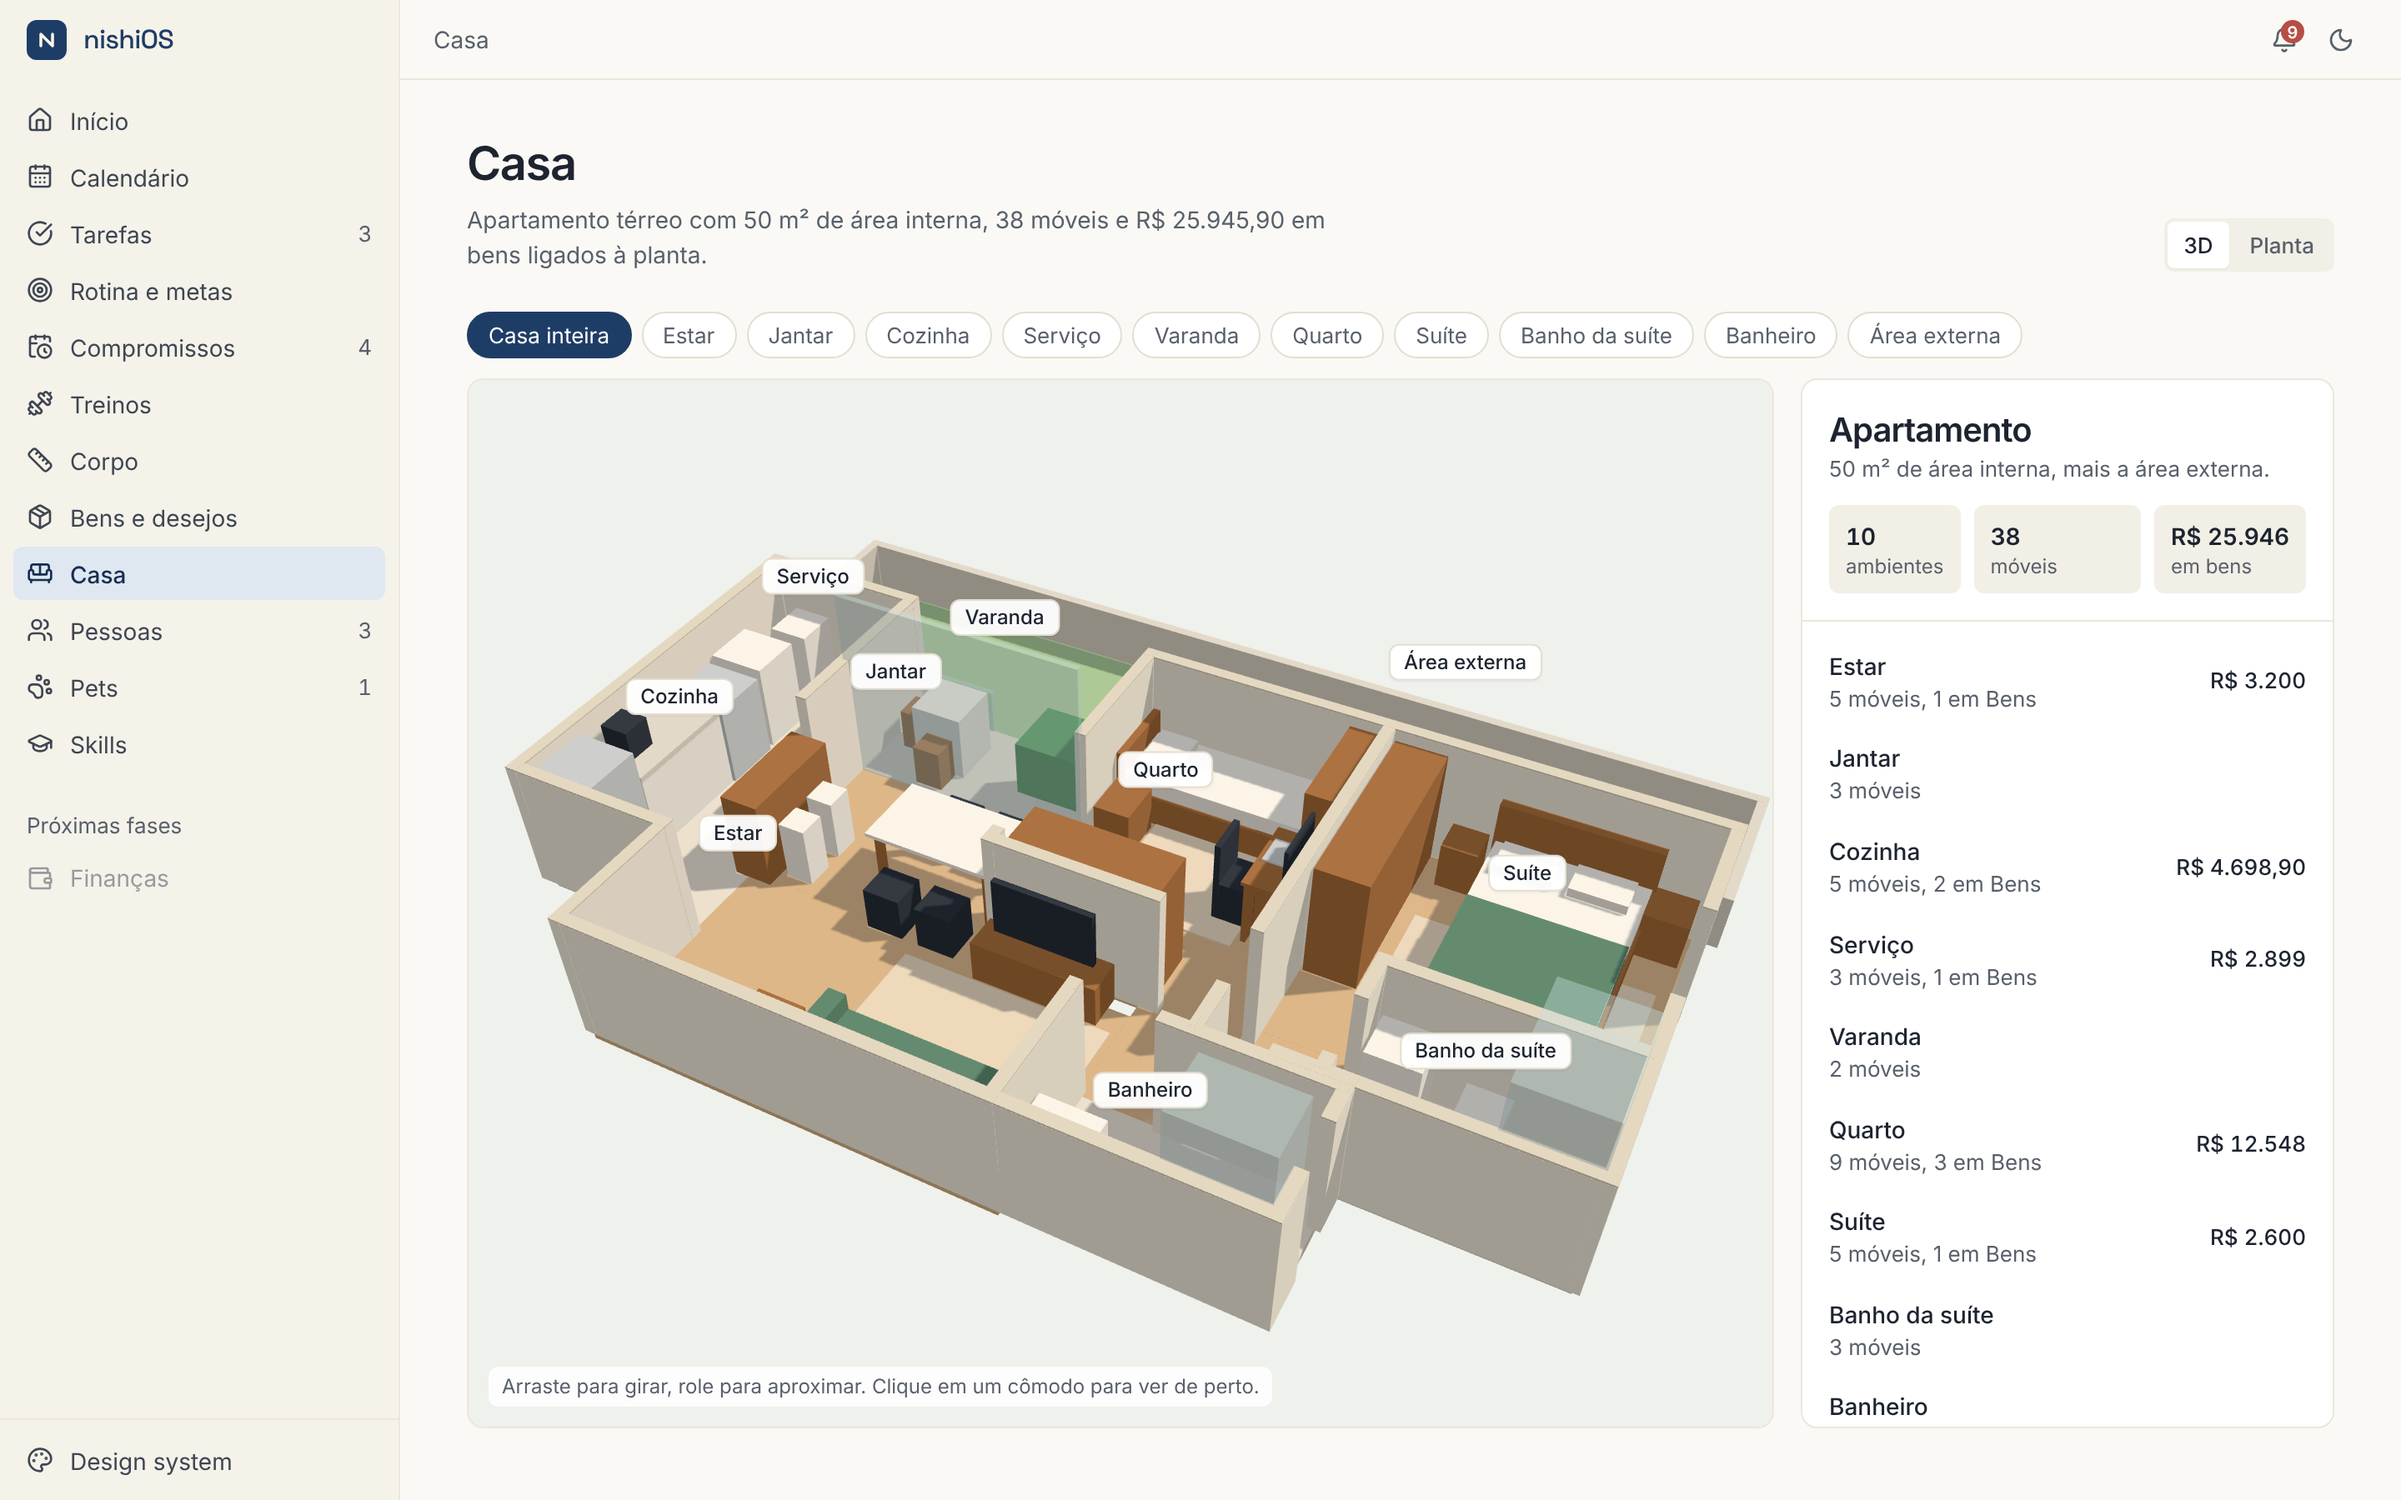
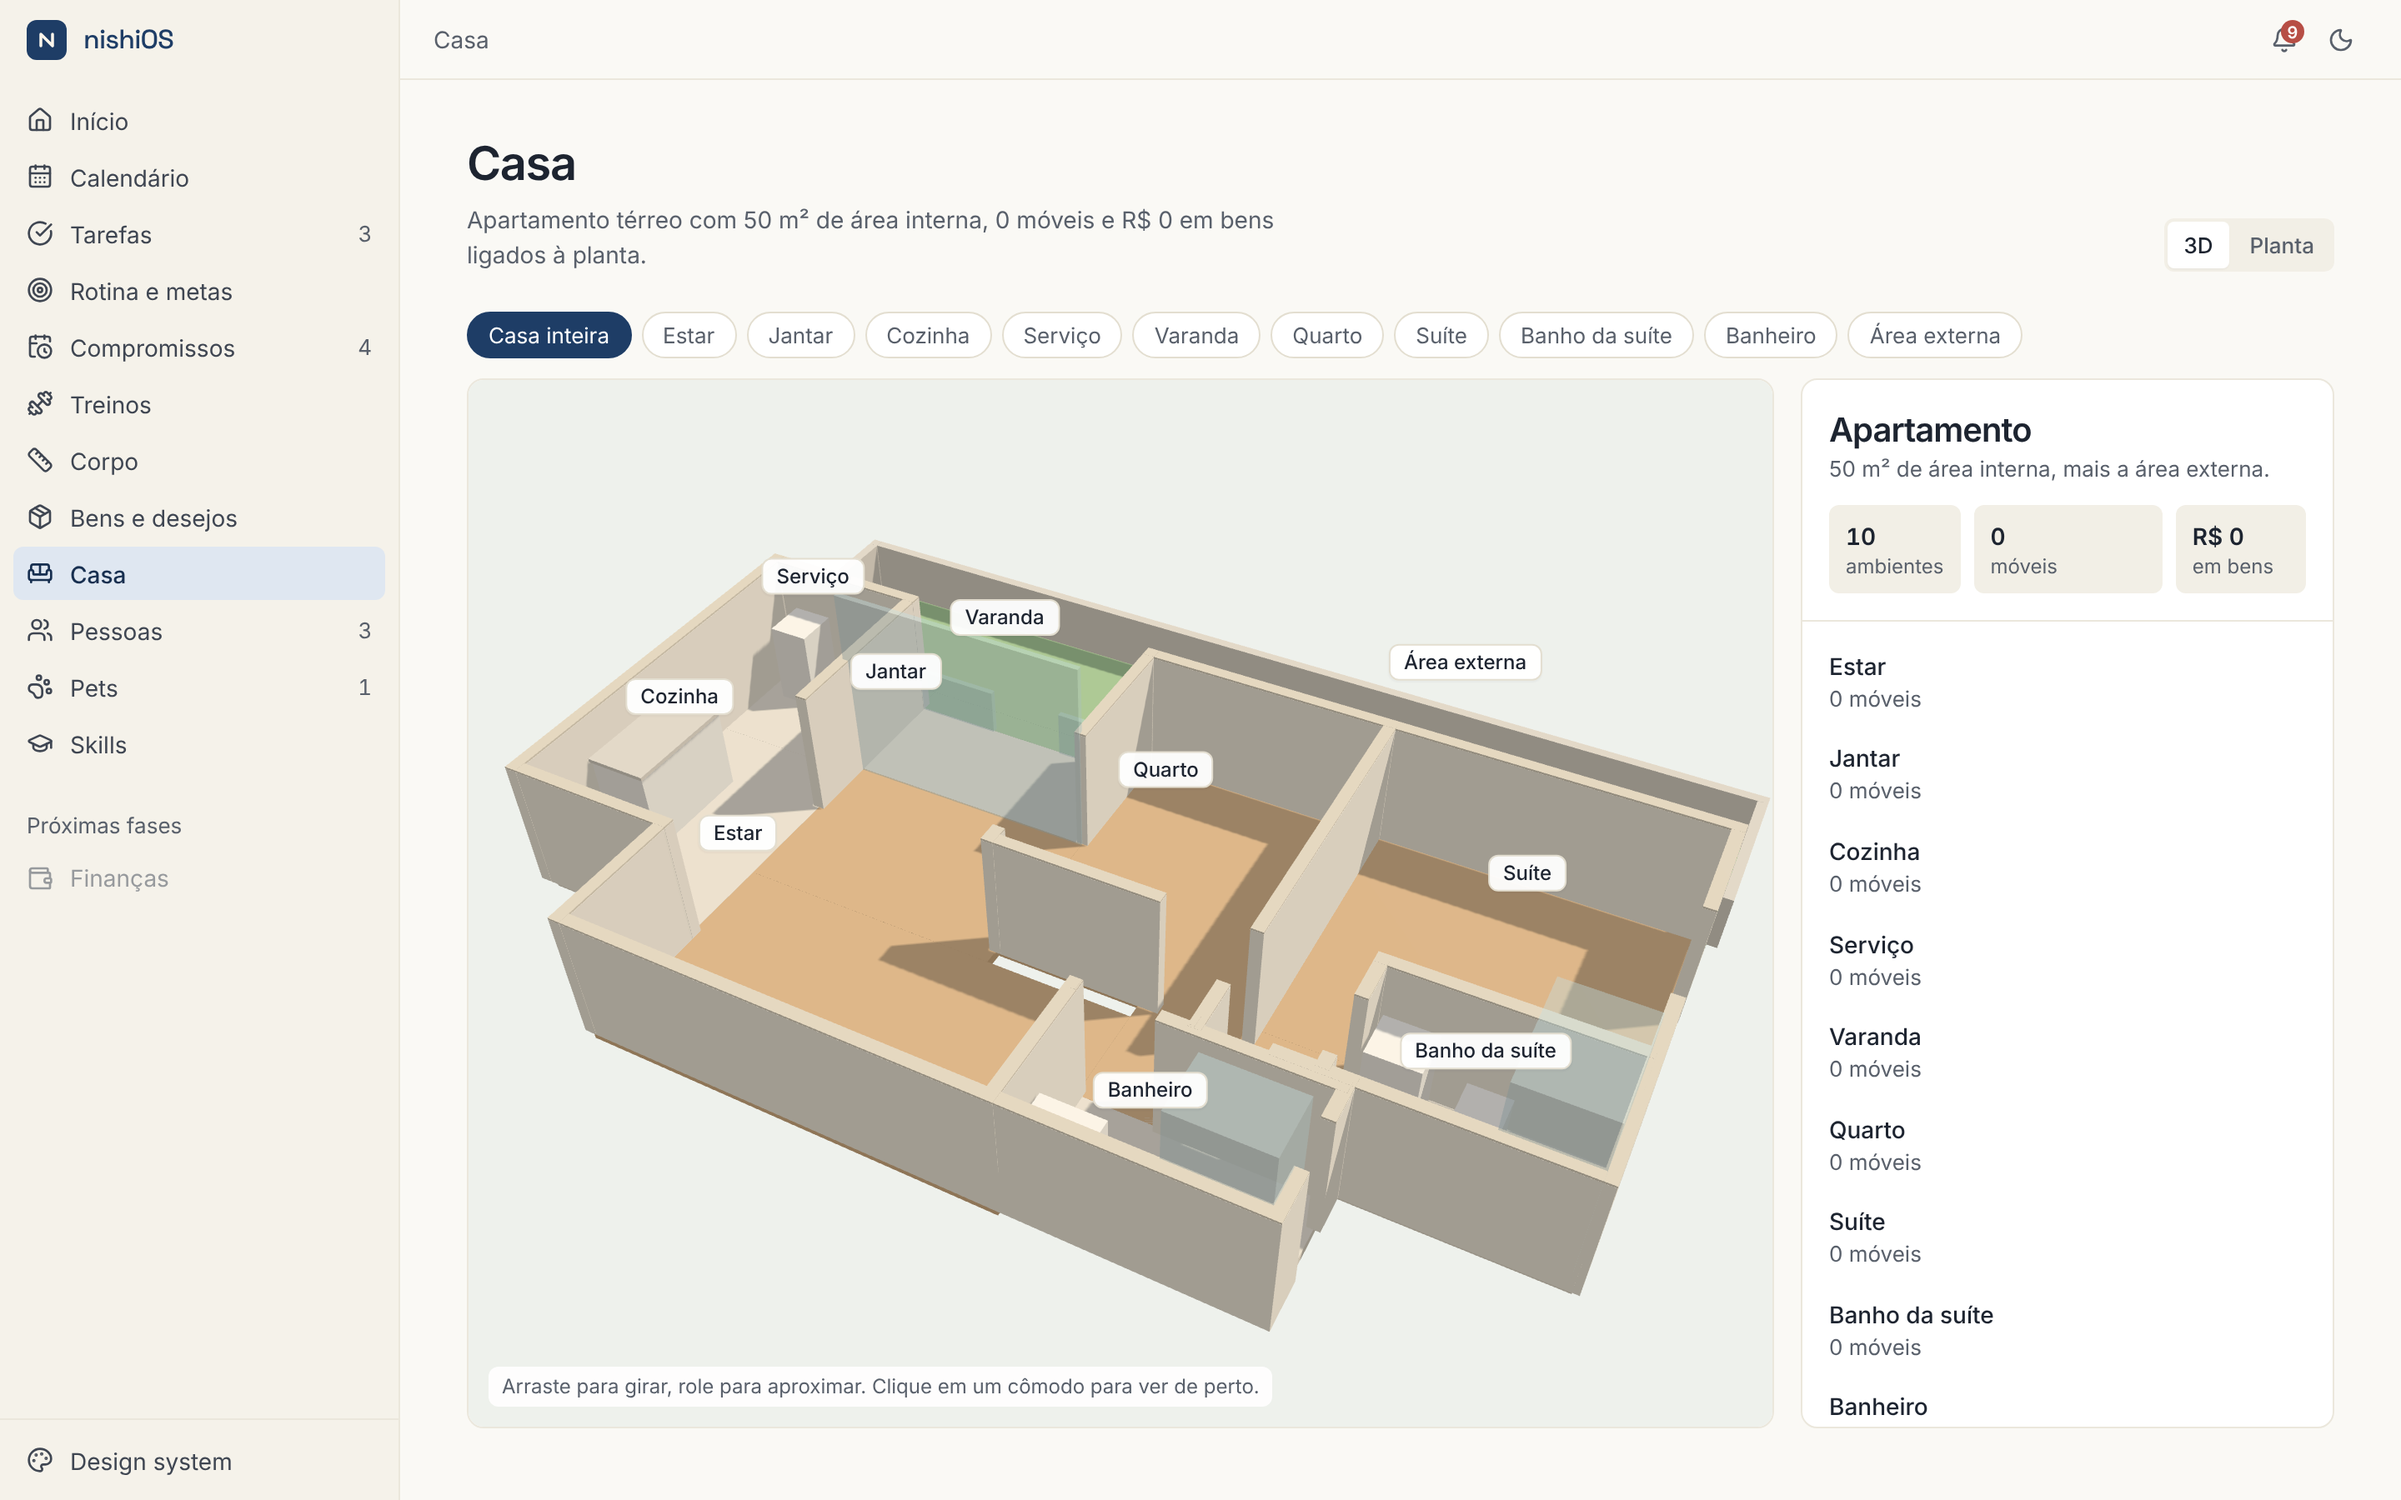
Casa: começa com o apartamento vazio
Tira todos os móveis e deixa só o que vem da construção: pias, vasos,
boxes, tanque, bancada da cozinha, porta da varanda e muro. A chave
do armazenamento passa para v2 para a casa vazia aparecer.

Claude-Session: https://claude.ai/code/session_01CPBcsqRPwbGni2R1C2Sruf

diff --git a/src/modules/casa/seed.ts b/src/modules/casa/seed.ts
@@ -10,14 +10,10 @@ const p = (x: number, z: number, w: number, d: number, h: number, m: Material, y
 });
 
 let n = 0;
-const piece = (
-  roomId: string,
-  name: string,
-  icon: string,
-  category: string,
-  parts: Part[],
-  extra: Partial<Piece> = {},
-): Piece => ({ id: `m${++n}`, roomId, name, icon, category, parts, ...extra });
+/** Parte da construção: aparece no 3D, mas não é um móvel nem um bem. */
+const fixed = (roomId: string, name: string, parts: Part[]): Piece => ({
+  id: `c${++n}`, roomId, name, icon: "🏠", category: "Outros", parts, fixed: true,
+});
 
 const w = (axis: Wall["axis"], at: number, from: number, to: number, gaps?: Wall["gaps"]): Wall => ({
   axis, at, from, to, gaps,
@@ -30,20 +26,14 @@ export function seedHome(): Home {
     rooms: [
       {
         id: "estar", name: "Estar", rects: [[1.64, 3.25, 4.11, 2.31]], label: [2.6, 4.3], floor: "madeira",
-        tips: [
-          "O estar tem só o sofá: cabe uma poltrona no canto ao lado da mesa lateral, virada para a TV, sem fechar a passagem para o jantar.",
-        ],
       },
       {
         id: "jantar", name: "Jantar", rects: [[1.64, 1.42, 2.64, 1.83]], label: [2.5, 1.75], floor: "madeira",
-        tips: [
-          "A mesa retangular fica no caminho entre a cozinha e o estar. Uma redonda de 4 lugares libera a passagem pelo balcão.",
-        ],
       },
       {
         id: "cozinha", name: "Cozinha", rects: [[0, 1.53, 1.64, 2.66]], label: [0.95, 3.0], floor: "piso",
         tips: [
-          "A bancada é curta. Um carrinho auxiliar ao lado do balcão dá mais área de preparo sem obra.",
+          "A bancada da pia é curta. Um carrinho auxiliar ou uma ilha pequena dá mais área de preparo sem obra.",
         ],
       },
       { id: "servico", name: "Serviço", rects: [[0, 0.21, 1.64, 1.32]], label: [0.85, 0.75], floor: "piso" },
@@ -55,15 +45,9 @@ export function seedHome(): Home {
       },
       {
         id: "quarto", name: "Quarto", rects: [[4.28, -0.06, 2.52, 3.11]], label: [5.4, 1.9], floor: "madeira",
-        tips: [
-          "Quarto e escritório dividem o espaço: uma cortina blackout e uma luminária na escrivaninha ajudam a separar trabalho e descanso.",
-        ],
       },
       {
         id: "suite", name: "Suíte", rects: [[6.8, -0.06, 3.21, 2.94], [6.8, 2.88, 1.02, 1.29]], label: [8.6, 1.75], floor: "madeira",
-        tips: [
-          "O guarda-roupa ocupa a parede da entrada. Portas de correr evitam bater na cama ao abrir.",
-        ],
       },
       { id: "banhosuite", name: "Banho da suíte", rects: [[7.82, 2.88, 2.19, 1.29]], label: [8.9, 3.75], floor: "piso" },
       { id: "circ", name: "Circulação", rects: [[5.75, 3.05, 1.05, 1.2]], label: [6.3, 3.6], floor: "madeira" },
@@ -89,80 +73,22 @@ export function seedHome(): Home {
       w("x", 4.25, 5.75, 8.08, [[5.8, 6.5]]), w("z", 5.75, 4.19, 5.59),
       w("z", 4.28, 2.9, 3.11),
     ],
+    // Apartamento vazio: só o que vem com a construção (louças, bancada, box, tanque,
+    // porta da varanda e muro). Os móveis entram depois, pelo editor.
     pieces: [
-      // Serviço
-      piece("servico", "Tanque", "🚰", "Móveis", [p(0.2, 0.32, 0.42, 0.45, 0.88, "branco")]),
-      piece("servico", "Máquina de lavar 12 kg", "🧺", "Eletrodomésticos", [p(0.02, 0.98, 0.6, 0.55, 0.95, "branco")], { assetId: "a6" }),
-      piece("servico", "Armário de limpeza", "🧹", "Móveis", [p(1.3, 0.52, 0.28, 0.8, 1.0, "branco")]),
-      // Cozinha
-      piece("cozinha", "Fogão", "🔥", "Eletrodomésticos", [p(0.02, 1.6, 0.62, 0.6, 0.9, "metal")]),
-      piece("cozinha", "Pia", "🚰", "Móveis", [p(0.02, 2.22, 0.6, 1.18, 0.88, "branco"), p(0, 2.2, 0.64, 1.22, 0.04, "pedra", 0.88)]),
-      piece("cozinha", "Air fryer", "🍳", "Eletrodomésticos", [p(0.1, 2.95, 0.3, 0.3, 0.32, "escuro", 0.92)], { assetId: "a7" }),
-      piece("cozinha", "Geladeira frost free", "🧊", "Eletrodomésticos", [p(0.02, 3.45, 0.64, 0.64, 1.8, "metal")], { assetId: "a5" }),
-      piece("cozinha", "Balcão", "🪵", "Móveis", [p(1.5, 2.2, 0.4, 1.12, 0.95, "madeira")]),
-      // Jantar
-      piece("jantar", "Banquetas", "🪑", "Móveis", [p(1.97, 2.4, 0.28, 0.28, 0.65, "branco"), p(1.97, 2.85, 0.28, 0.28, 0.65, "branco")]),
-      piece("jantar", "Mesa de jantar", "🍽", "Móveis", [
-        p(2.84, 2.15, 1.34, 0.81, 0.04, "branco", 0.72),
-        p(2.9, 2.2, 0.07, 0.07, 0.72, "madeira"), p(4.06, 2.2, 0.07, 0.07, 0.72, "madeira"),
-        p(2.9, 2.84, 0.07, 0.07, 0.72, "madeira"), p(4.06, 2.84, 0.07, 0.07, 0.72, "madeira"),
-      ]),
-      piece("jantar", "Cadeiras", "🪑", "Móveis", [
-        p(3.05, 1.82, 0.38, 0.36, 0.46, "escuro"), p(3.6, 1.82, 0.38, 0.36, 0.46, "escuro"),
-        p(3.05, 3.0, 0.38, 0.36, 0.46, "escuro"), p(3.6, 3.0, 0.38, 0.36, 0.46, "escuro"),
-      ]),
-      // Varanda
-      piece("varanda", "Mesa da varanda", "☕", "Móveis", [
-        p(2.14, 0.52, 0.56, 0.56, 0.72, "branco"), p(1.86, 0.6, 0.3, 0.3, 0.45, "madeira"), p(2.3, 1.05, 0.3, 0.3, 0.45, "madeira"),
-      ]),
-      piece("varanda", "Planta", "🪴", "Outros", [p(3.62, 0.78, 0.42, 0.42, 0.3, "branco"), p(3.5, 0.66, 0.66, 0.66, 0.6, "planta", 0.3)]),
-      piece("varanda", "Porta de vidro", "🚪", "Outros", [p(1.64, 1.38, 2.64, 0.06, 2.1, "vidro")], { fixed: true }),
-      piece("varanda", "Guarda-corpo", "🚪", "Outros", [p(1.68, 0.2, 0.9, 0.06, 0.5, "vidro"), p(3.38, 0.2, 0.9, 0.06, 0.5, "vidro")], { fixed: true }),
-      // Estar
-      piece("estar", "Sofá de 3 lugares", "🛋", "Móveis", [
-        p(3.57, 4.62, 2.05, 0.82, 0.42, "tecido"), p(3.57, 5.22, 2.05, 0.22, 0.82, "tecido"),
-        p(3.57, 4.62, 0.18, 0.82, 0.6, "tecido"), p(5.44, 4.62, 0.18, 0.82, 0.6, "tecido"),
-      ], { assetId: "a8" }),
-      piece("estar", "Tapete", "🟫", "Móveis", [p(3.57, 3.52, 2.12, 1.9, 0.02, "tapete")]),
-      piece("estar", "Mesa lateral", "🪵", "Móveis", [p(2.98, 4.83, 0.48, 0.48, 0.5, "madeira")]),
-      piece("estar", "Rack", "📦", "Móveis", [p(4.27, 3.13, 1.26, 0.36, 0.45, "madeira")]),
-      piece("estar", "TV", "📺", "Eletrônicos", [p(4.4, 3.22, 1.0, 0.06, 0.6, "escuro", 0.48)]),
-      // Quarto
-      piece("quarto", "Cama de solteiro", "🛏", "Móveis", [
-        p(4.35, 0, 2.0, 0.82, 0.32, "madeira"), p(4.4, 0.04, 1.9, 0.74, 0.18, "branco", 0.32),
-        p(4.35, 0, 0.08, 0.82, 0.75, "madeira"), p(4.5, 0.1, 0.4, 0.55, 0.1, "branco", 0.5),
-      ]),
-      piece("quarto", "Criado-mudo", "🪵", "Móveis", [p(4.39, 0.88, 0.38, 0.5, 0.5, "madeira")]),
-      piece("quarto", "Tapete do quarto", "🟫", "Móveis", [p(4.8, 0.83, 1.37, 1.23, 0.02, "tapete")]),
-      piece("quarto", "Mesa de escritório", "🪑", "Móveis", [
-        p(6.2, 1.12, 0.5, 0.85, 0.04, "madeira", 0.72), p(6.22, 1.14, 0.05, 0.8, 0.72, "madeira"), p(6.63, 1.14, 0.05, 0.8, 0.72, "madeira"),
-      ], { assetId: "a10" }),
-      piece("quarto", "Monitor 27 polegadas", "🖥", "Eletrônicos", [p(6.55, 1.25, 0.04, 0.62, 0.38, "escuro", 0.8)], { assetId: "a3" }),
-      piece("quarto", "MacBook Air M3", "💻", "Eletrônicos", [p(6.25, 1.3, 0.24, 0.32, 0.02, "metal", 0.76)], { assetId: "a1" }),
-      piece("quarto", "Estante", "📚", "Móveis", [p(6.42, 0, 0.32, 1.12, 1.9, "madeira")]),
-      piece("quarto", "Cadeira", "💺", "Móveis", [p(5.85, 1.36, 0.42, 0.42, 0.45, "escuro"), p(5.85, 1.36, 0.06, 0.42, 0.9, "escuro")]),
-      piece("quarto", "Guarda-roupa", "🚪", "Móveis", [p(4.35, 2.4, 1.5, 0.58, 2.0, "madeira")]),
-      // Suíte
-      piece("suite", "Guarda-roupa da suíte", "🚪", "Móveis", [p(6.88, 0.02, 0.52, 2.0, 2.0, "madeira")]),
-      piece("suite", "Tapete da suíte", "🟫", "Móveis", [p(7.55, 0.88, 2.27, 1.54, 0.02, "tapete")]),
-      piece("suite", "Cama box queen", "🛏", "Móveis", [
-        p(7.97, 0.02, 1.54, 2.06, 0.32, "madeira"), p(8.0, 0.08, 1.48, 1.98, 0.2, "branco", 0.32),
-        p(7.97, 0, 1.54, 0.1, 0.95, "madeira"), p(8.1, 0.18, 0.55, 0.36, 0.1, "branco", 0.52),
-        p(8.8, 0.18, 0.55, 0.36, 0.1, "branco", 0.52), p(8.0, 0.95, 1.48, 1.1, 0.22, "tecido", 0.32),
-      ], { assetId: "a9" }),
-      piece("suite", "Criados-mudos", "🪵", "Móveis", [p(7.56, 0.02, 0.36, 0.36, 0.5, "madeira"), p(9.48, 0.02, 0.42, 0.42, 0.5, "madeira")]),
-      piece("suite", "TV da suíte", "📺", "Eletrônicos", [p(8.2, 2.68, 1.15, 0.12, 0.5, "madeira"), p(8.28, 2.74, 1.0, 0.05, 0.42, "escuro", 0.5)]),
-      // Banheiros
-      piece("banhosuite", "Pia", "🚰", "Móveis", [p(7.92, 2.98, 0.5, 0.45, 0.85, "branco")]),
-      piece("banhosuite", "Vaso", "🚽", "Outros", [p(8.7, 2.98, 0.4, 0.62, 0.42, "branco")]),
-      piece("banhosuite", "Box", "🚿", "Outros", [p(9.17, 2.98, 0.8, 1.15, 1.9, "vidro")]),
-      piece("banho", "Pia", "🚰", "Móveis", [p(5.84, 4.98, 0.6, 0.48, 0.85, "branco")]),
-      piece("banho", "Vaso", "🚽", "Outros", [p(6.65, 4.84, 0.4, 0.62, 0.42, "branco")]),
-      piece("banho", "Box", "🚿", "Outros", [p(7.12, 4.88, 0.88, 0.6, 1.9, "vidro")]),
-      // Área externa
-      piece("externa", "Muro", "🧱", "Outros", [
+      fixed("servico", "Tanque", [p(0.2, 0.32, 0.42, 0.45, 0.88, "branco")]),
+      fixed("cozinha", "Bancada da pia", [p(0.02, 2.22, 0.6, 1.18, 0.88, "branco"), p(0, 2.2, 0.64, 1.22, 0.04, "pedra", 0.88)]),
+      fixed("varanda", "Porta de vidro", [p(1.64, 1.38, 2.64, 0.06, 2.1, "vidro")]),
+      fixed("varanda", "Guarda-corpo", [p(1.68, 0.2, 0.9, 0.06, 0.5, "vidro"), p(3.38, 0.2, 0.9, 0.06, 0.5, "vidro")]),
+      fixed("banhosuite", "Pia", [p(7.92, 2.98, 0.5, 0.45, 0.85, "branco")]),
+      fixed("banhosuite", "Vaso", [p(8.7, 2.98, 0.4, 0.62, 0.42, "branco")]),
+      fixed("banhosuite", "Box", [p(9.17, 2.98, 0.8, 1.15, 1.9, "vidro")]),
+      fixed("banho", "Pia", [p(5.84, 4.98, 0.6, 0.48, 0.85, "branco")]),
+      fixed("banho", "Vaso", [p(6.65, 4.84, 0.4, 0.62, 0.42, "branco")]),
+      fixed("banho", "Box", [p(7.12, 4.88, 0.88, 0.6, 1.9, "vidro")]),
+      fixed("externa", "Muro", [
         p(-0.12, -1.62, 10.25, 0.1, 0.6, "pedra"), p(-0.12, -1.62, 0.1, 1.9, 0.6, "pedra"), p(10.07, -1.62, 0.1, 1.62, 0.6, "pedra"),
-      ], { fixed: true }),
+      ]),
     ],
   };
 }

diff --git a/src/modules/casa/palette.ts b/src/modules/casa/palette.ts
@@ -34,14 +34,14 @@ const realMaterials: Record<Material, string> = {
 
 const planMaterials: Record<Material, string> = {
   madeira: "#e3ded0",
-  branco: "#fdfcfa",
+  branco: "#e3e4e6",
   tecido: "#c3d2e5",
   escuro: "#59606b",
   metal: "#d7dbe0",
   planta: "#8fb89a",
   vidro: "#dfe7f1",
   tapete: "#f2efe6",
-  pedra: "#b8af9b",
+  pedra: "#d3ccba",
 };
 
 const PALETTES: Record<ViewMode, Record<"light" | "dark", Palette>> = {

diff --git a/src/modules/casa/store.tsx b/src/modules/casa/store.tsx
@@ -3,7 +3,8 @@ import { usePersistentState } from "@/lib/storage";
 import { seedHome } from "./seed";
 import type { Home } from "./types";
 
-const KEY = "nishios:casa:v1";
+// v2: o apartamento passou a começar vazio.
+const KEY = "nishios:casa:v2";
 
 interface Store {
   home: Home;

diff --git a/README.md b/README.md
@@ -57,7 +57,7 @@ Outros comandos: `npm run build` (checa os tipos e gera a versão final em `dist
 - **Bens e desejos**:
   - Meus bens: agrupados por categoria, com valor de compra, data, garantia (avisa quando está acabando) e onde fica. O topo mostra o total.
   - Lista de desejos: preço, prioridade, data pretendida e link. "Comprei" registra a compra e move o item para os bens.
-- **Casa**: o apartamento em 3D, montado a partir da planta (cômodos, paredes, móveis e a área externa).
+- **Casa**: o apartamento em 3D, montado a partir da planta (cômodos, paredes e a área externa). Começa vazio, só com o que vem da construção: pias, vasos, boxes, tanque, bancada da cozinha, porta da varanda e muro.
   - Duas vistas: **3D** (low-poly, com luz e sombra; arraste para girar e role para aproximar) e **Planta** (vista de cima, a padrão no celular).
   - Clique em um cômodo, ou no nome dele, para a câmera ir até ele: as paredes baixam, o resto da casa fica apagado e os móveis ganham etiqueta.
   - Cada móvel pode ser ligado a um bem de **Bens e desejos**. O painel do cômodo soma o valor e mostra as garantias; ligar um móvel também atualiza o "Onde fica" do bem. "Criar bem novo" cadastra o bem já preenchido a partir do móvel.
